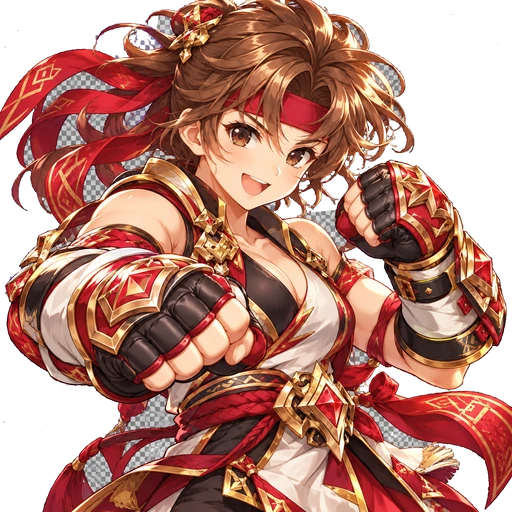
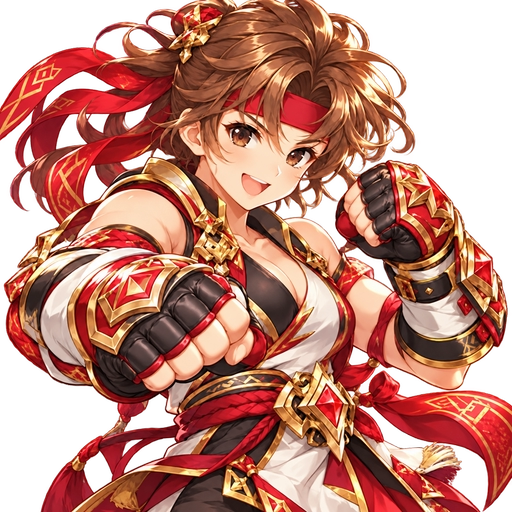
Fix female pugilist portrait transparency

diff --git a/crystal-game.js b/crystal-game.js
@@ -41,7 +41,7 @@
   const classDefs = {
     warrior:{label:'전사',title:'CRYSTAL GUARDIAN',trait:'강인함 · 가끔 제한시간 +1초',skill:'수호의 시간',skillDesc:'위기의 순간에 문제 제한시간을 1초 늘려요.',stats:{hp:5,atk:3,def:5,luk:1},paths:{male:'warrior.webp',female:'variants/warrior-female.webp'}},
     mage:{label:'마법사',title:'ARCANE SCHOLAR',trait:'타임 스톱 · 가끔 시간 정지',skill:'타임 스톱',skillDesc:'집중력이 빛나면 문제 시간을 잠시 멈춰요.',stats:{hp:2,atk:5,def:2,luk:3},paths:{male:'mage.webp',female:'variants/mage-female.webp'}},
-    pugilist:{label:'권투사',title:'COMBO MASTER',trait:'콤보 마스터 · 3콤보 보너스',skill:'러시 콤보',skillDesc:'3연속 정답마다 보너스 크리스털을 받아요.',stats:{hp:4,atk:5,def:3,luk:2},paths:{male:'variants/pugilist-male.webp',female:'pugilist.webp'}},
+    pugilist:{label:'권투사',title:'COMBO MASTER',trait:'콤보 마스터 · 3콤보 보너스',skill:'러시 콤보',skillDesc:'3연속 정답마다 보너스 크리스털을 받아요.',stats:{hp:4,atk:5,def:3,luk:2},paths:{male:'variants/pugilist-male.webp',female:'pugilist.webp?v=20260921-alpha'}},
     ranger:{label:'궁수',title:'TREASURE HUNTER',trait:'보물 사냥꾼 · 상자 최소 20개',skill:'행운의 화살',skillDesc:'보물상자에서 최소 20 크리스털을 찾아요.',stats:{hp:3,atk:4,def:2,luk:5},paths:{male:'variants/ranger-male.webp',female:'ranger.webp'}}
   };
   const builtinWorlds = [

diff --git a/playable-preview.js b/playable-preview.js
@@ -24,7 +24,7 @@
   const classes = [
     {id:'mage',label:'마법사',name:'블리자드',title:'ARCANE SCHOLAR',trait:'서리 기록관',paths:['mage.webp','variants/mage-female.webp']},
     {id:'warrior',label:'전사',name:'아이언하트',title:'CRYSTAL GUARDIAN',trait:'크리스털 수호자',paths:['warrior.webp','variants/warrior-female.webp']},
-    {id:'pugilist',label:'권투사',name:'레드스트라이크',title:'COMBO MASTER',trait:'불꽃의 도전자',paths:['variants/pugilist-male.webp','pugilist.webp']},
+    {id:'pugilist',label:'권투사',name:'레드스트라이크',title:'COMBO MASTER',trait:'불꽃의 도전자',paths:['variants/pugilist-male.webp','pugilist.webp?v=20260921-alpha']},
     {id:'ranger',label:'궁수',name:'로빈리프',title:'FOREST SEEKER',trait:'숲의 단어 수호자',paths:['variants/ranger-male.webp','ranger.webp']}
   ];
   const items = [

diff --git a/avatar-art.js b/avatar-art.js
@@ -2,7 +2,7 @@
 var art={
   warrior:{male:'assets/avatars/warrior.webp?v=20260911-hq',female:'assets/avatars/variants/warrior-female.webp?v=20260911-hq'},
   mage:{male:'assets/avatars/mage.webp?v=20260918-casting',female:'assets/avatars/variants/mage-female.webp?v=20260918-casting'},
-  pugilist:{male:'assets/avatars/variants/pugilist-male.webp?v=20260911-hq',female:'assets/avatars/pugilist.webp?v=20260911-hq'},
+  pugilist:{male:'assets/avatars/variants/pugilist-male.webp?v=20260911-hq',female:'assets/avatars/pugilist.webp?v=20260921-alpha'},
   ranger:{male:'assets/avatars/variants/ranger-male.webp?v=20260911-hq',female:'assets/avatars/ranger.webp?v=20260917-skins'}
 };
 var defaults={warrior:'male',mage:'male',pugilist:'female',ranger:'female'};
